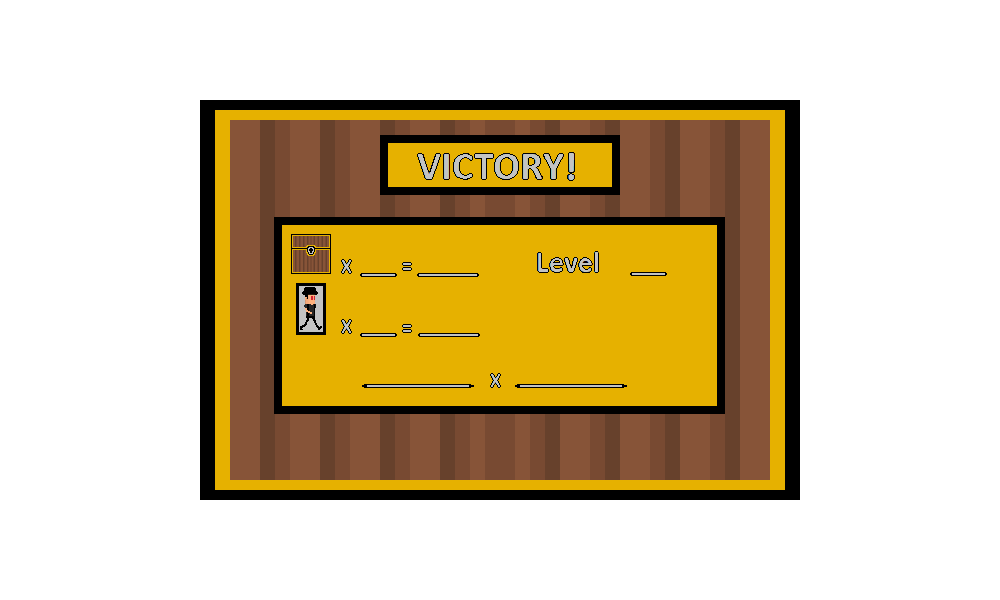
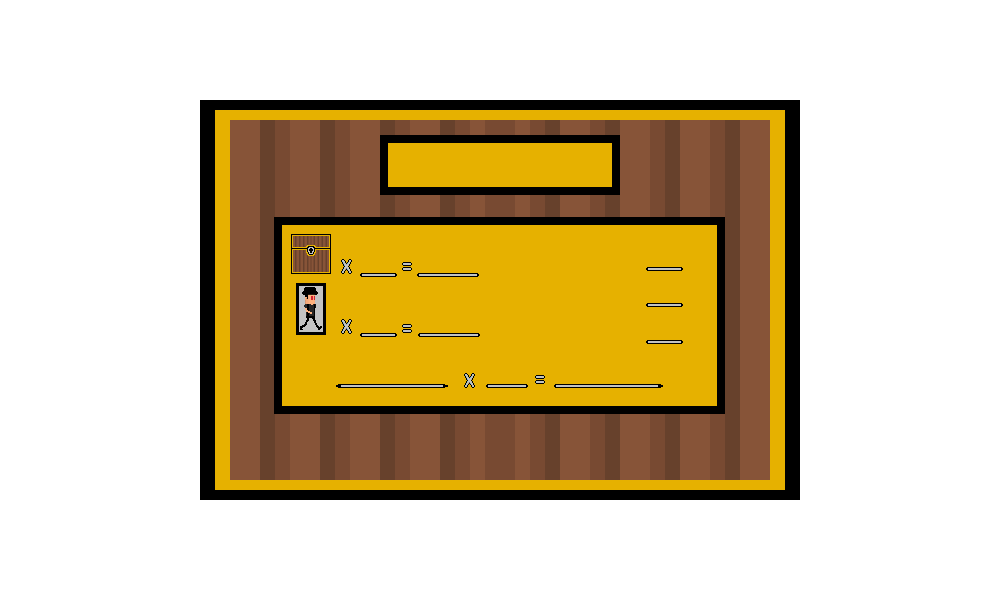
Dynamic End Screen Update
*BUG: Enemies do not always damage player. Enemies appear to only damage player once.
-----------------------------------------
*Adjusted end game screen to allow for dynamic score and stat display
*Added multipliers based on performance for calculating final score
-----------------------------------------
*Fixed enemy defeated not always being called bug
*Fixed continue after death bug

diff --git a/main/patrick/js/player.js b/main/patrick/js/player.js
@@ -40,6 +40,7 @@ for(var j = 0; j < enemy_list.length; j++) {
 	else if(papers[i].x >= (enemy_list[j].x - 11 - current_offset_x) && papers[i].x <= (enemy_list[j].x + 11 - current_offset_x) && papers[i].direction == "left"
 		 && papers[i].y > (enemy_list[j].y - 10) && papers[i].y < (enemy_list[j].y +10)){
 		console.log("paper hit");
+        enemy_killed();
 		papers.splice(i,1);
 		paperNo--;
 		enemy_list.splice(j,1);
@@ -124,7 +125,7 @@ if (player.i_y >0){//going up
 	}
 }
 }
-}
+}//end update player
 
 
 //Player Level and Health Handling
@@ -155,6 +156,8 @@ function has_died(){
     game_paused=1;
     clearInterval(update_tick);
     clearInterval(update_timer);
+    pausible = false;
+    gameComplete = false;
     menu("has_died");
     console.log("You died.");
     end_time();
@@ -165,7 +168,7 @@ function score_block(){
     score += 25;
     chestsOpened++;
     can_level_up();
-    console.log("Current score  "+score);
+    console.log("Chest opened");
 }
 
 //give player points for killing enemies
@@ -173,7 +176,7 @@ function enemy_killed(){
     score += 150;
     enemiesKilled++;
     can_level_up();
-    console.log("Current score  "+score);
+    console.log("Enemy killed");
 }
 
 //call when player earns points to check if they have enough to level up
@@ -188,6 +191,9 @@ function level_up(){
     maxHealth++; //increase max health
     currentHealth = maxHealth; //heal player to full health
     scoreNeeded = scoreNeeded + (playerLevel * 500); //set new level up requirement
+    //3000 points is the max that can be earned
+    if (scoreNeeded > 3000) 
+        scoreNeeded = 3000;
     game_paused=1;
     clearInterval(update_tick);
     clearInterval(update_timer);
@@ -199,7 +205,82 @@ function end_game(){
 	game_paused = 1;
 	clearInterval(update_tick);
 	clearInterval(update_timer);
-    console.log("Hi");
+    pausible = false;
     menu("end_game");
     console.log("Game Over.");
+    game_results();
 }
+
+//display game stats and final score
+//example: ctx.fillText("OFFICE HOURS",375,30); x-axis,y-axis
+function game_results(){
+    ctx.globalAlpha = 1;
+    ctx.fillStyle="black";
+    ctx.font = "30px Mario";
+    ctx.fillText("GAME OVER",420,175);
+    ctx.fillText(chestsOpened,365,270);
+    ctx.fillText((chestsOpened * 25),425,270);
+    ctx.fillText("LEVEL",520,265);
+    ctx.fillText(playerLevel,655,265);
+    ctx.fillText(enemiesKilled,365,330);
+    ctx.fillText((enemiesKilled * 150),425,330);
+    
+    //print out health and health multiplier
+    currentPlace = 520;
+    for(i=0; i<currentHealth; i++){//loop to display all hearts
+        ctx.drawImage(heart, currentPlace, 280);
+        currentPlace = currentPlace + 32;
+    }//end for
+    for(i=0; i<(maxHealth - currentHealth); i++){//loop to display lost hearts
+        ctx.drawImage(hurtheart, currentPlace, 280);
+        currentPlace = currentPlace + 32;
+    }//end for
+    if (currentHealth == 0){
+        healthMultiplier = 1;
+    }
+    else{
+        healthMultiplier = currentHealth;
+    }
+    ctx.fillText(healthMultiplier,655,300);
+    
+    //print out time and time multiplier
+    ctx.fillText(minute+":"+second,520,337);
+    time = (minute * 60) + second;
+    console.log(time);
+
+    if (gameComplete == false){
+        timeMultiplier = 1;
+        console.log("not complete");
+    }//end if
+    else{
+        if (time > 150){//more than 2.5 mins
+            timeMultiplier = 0.5;
+        }
+        else if (time > 120){//more than 2 mins
+            timeMultiplier = 1;
+        }
+        else if (time > 90){//more than 1.5 mins
+            timeMultiplier = 2;
+        }
+        else if (time > 60){//more than 1 min
+            timeMultiplier = 3;
+        }
+        else if (time > 30){//more than 0.5 min
+            timeMultiplier = 4;
+        }
+        else{
+            timeMultiplier = 1;
+            console.log("problem");
+        }
+        }//end else  
+    
+    ctx.fillText(timeMultiplier,655,337);
+    
+    //display score, multipiers and final score
+    ctx.fillText(score,365,382);
+    finalMultiplier = playerLevel + healthMultiplier + timeMultiplier;
+    ctx.fillText(finalMultiplier,490,382);
+    finalScore = score * finalMultiplier;
+    ctx.fillText(finalScore,570,382);
+    
+}//end of game results

diff --git a/main/patrick/index.html b/main/patrick/index.html
@@ -28,6 +28,8 @@ paperMaxDist = 700;
 // var paper = {shown: false, x: 0, y: 0, direction: ' ' };
 papers = [];
 pausible = true; //enables & disables pauser()
+gameComplete = true; //controls time multiplier
+    
 game_paused = 1;//1 if paused, 0 if not.
 var keysDown = {//tracks which arrow keys are being held down.
 	37 : false,
